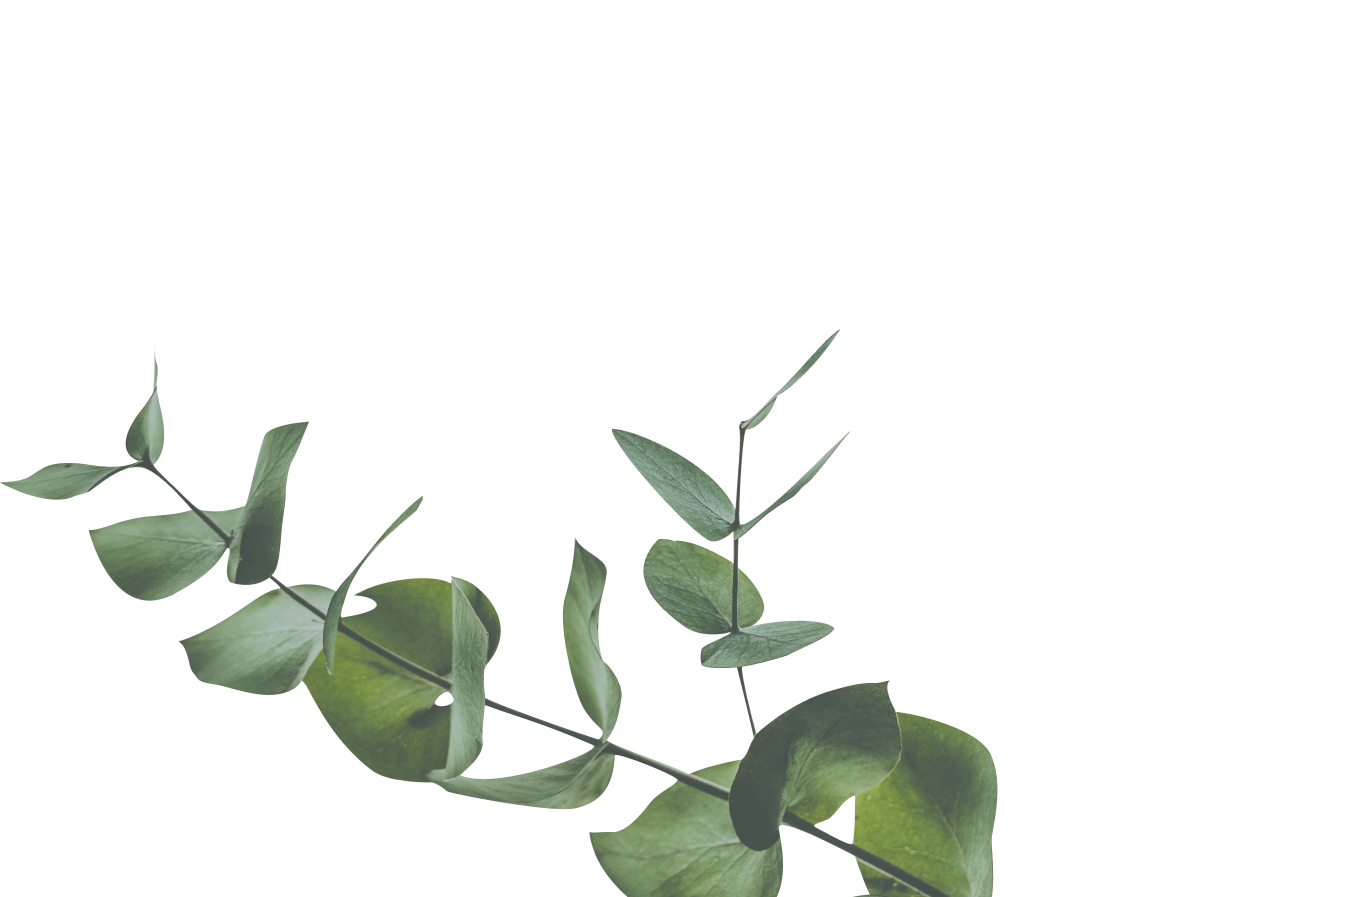
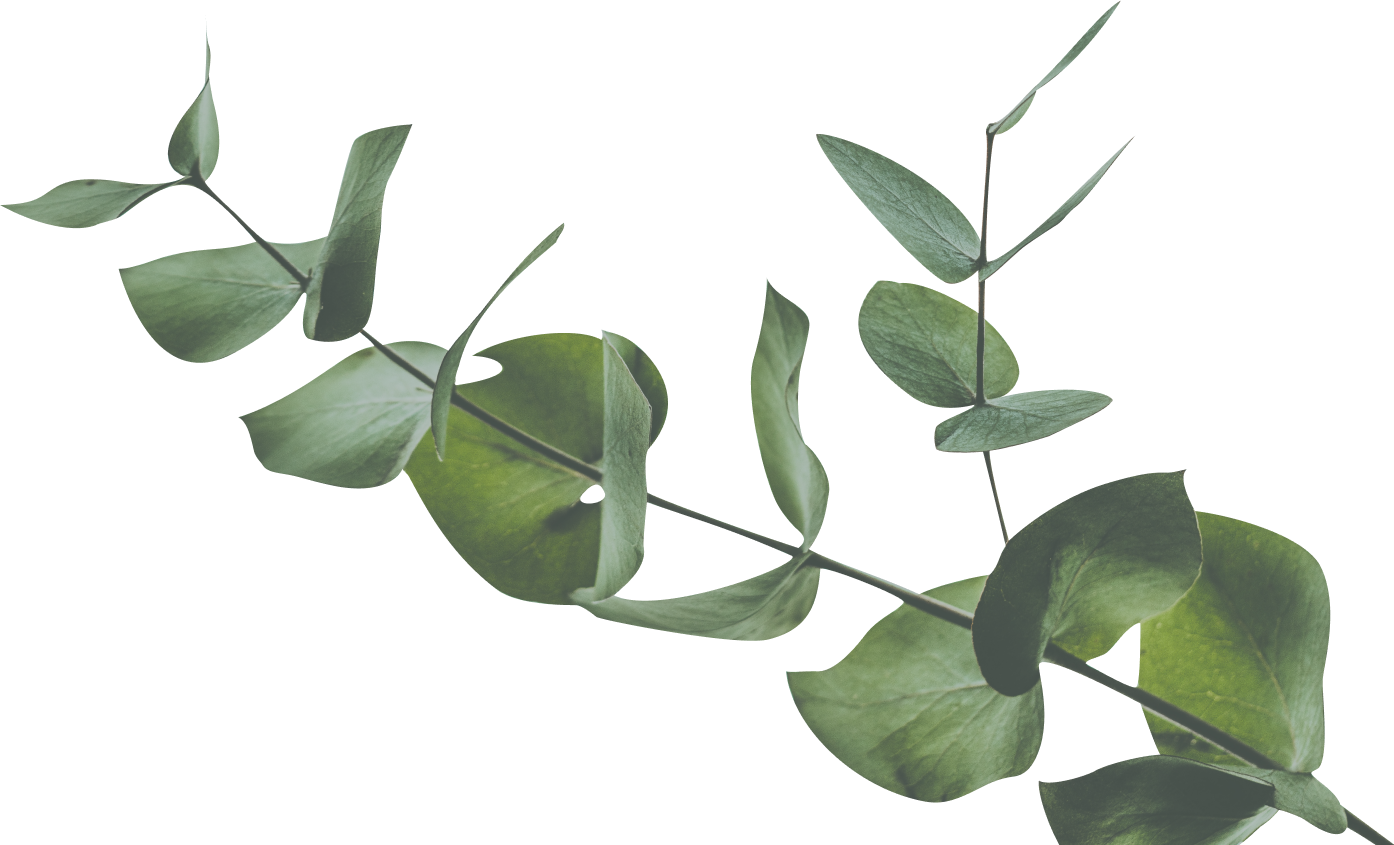
Modifier hover et bg accueil

diff --git a/src/styles/components/accueil.scss b/src/styles/components/accueil.scss
@@ -3,9 +3,16 @@
    ========================================================================== */
 .accueil {
     position: relative;
-    height: 100vh;
+    height: calc(100vh - 75.39px);
+
+    .avant_plan {
+        position: absolute;
+        bottom: 0;
+        left: 1%;
+        width: 50vw;
+        z-index: -1;
+    }
     .hero {
-        position: relative;
         position: absolute;
         left: 40%;
         top: 30%;
@@ -14,6 +21,21 @@
         margin: 0 0 0 85px;
         font-size: 2rem;
         line-height: 116%;
+    }
+    .box {
+        position: relative;
+        height: 160px;
+        &:hover {
+            .circle {
+                transition: transform 1s ease-in-out;
+                background: linear-gradient(
+                    90deg,
+                    rgba(204, 150, 22, 1) 0%,
+                    rgba(235, 235, 169, 1) 30%,
+                    rgba(204, 150, 22, 1) 100%
+                );
+            }
+        }
     }
     .call_action {
         position: absolute;
@@ -32,163 +54,92 @@
         font-weight: 700;
         text-transform: uppercase;
 
+        transform: perspective(1px) translateZ(0);
+        transition: 0.3s color ease-out;
+
+        &::before {
+            content: '';
+            position: absolute;
+            z-index: -1;
+            top: 0;
+            bottom: 0;
+            left: 0;
+            right: 0;
+            background: #2098d1;
+            -webkit-transform: scaleX(0);
+            transform: scaleX(0);
+            -webkit-transform-origin: 50%;
+            transform-origin: 50%;
+            -webkit-transition-property: transform;
+            transition-property: transform;
+            -webkit-transition-duration: 0.3s;
+            transition-duration: 0.3s;
+            -webkit-transition-timing-function: ease-out;
+            transition-timing-function: ease-out;
+        }
+
         &:hover {
             background: var(--color-secondary);
             -webkit-background-clip: inherit;
             -webkit-text-fill-color: var(--color-white);
         }
     }
-    .avant_plan {
-        position: absolute;
-        bottom: 0;
-        left: 1%;
-        width: 70vw;
-        z-index: -1;
-    }
-
-    .box {
-        position: relative;
-        transition: transform 0.4s cubic-bezier(0.23, 1.83, 0.42, 1.19);
-        &:hover {
-            .circle {
-                transform: scale(1.2);
-            }
-        }
-
-        /* a {
-             position: absolute;
-            top: 50%;
-            left: 50%;
-        } */
-    }
-    /* .call_action::after {
-        position: absolute;
-        top: 0;
-        right: 0;
-        content: '';
-        width: 120px;
-        height: 180px;
-        border-radius: 50%;
-        z-index: -1;
-        box-shadow: linear-gradient(
-            90deg,
-            rgba(224, 170, 62, 1) 0%,
-            rgba(255, 255, 189, 1) 30%,
-            rgba(224, 170, 62, 1) 100%
-        );
-        background: linear-gradient(
-            90deg,
-            rgba(224, 170, 62, 1) 0%,
-            rgba(255, 255, 189, 1) 30%,
-            rgba(224, 170, 62, 1) 100%
-        ); 
-
-        animation: 1s linear infinite alternate portal,
-            6s linear infinite alternate spinning,
-            0.8s linear infinite alternate big; 
-
-         &:hover {
-            transform: translate(5px 0);
-        } 
-    } */
-
     .circle {
         position: absolute;
         top: 0;
-        right: 0;
-        width: 120px;
-        height: 180px;
+        left: 60%;
+        width: 140px;
+        height: 160px;
 
-        background: none;
-        border: 2px solid;
-        border-image-slice: 1;
-
-        /* background-clip: padding-box;
-        border: solid 2px transparent; */
-        border-image-source: linear-gradient(
-            90deg,
-            rgba(224, 170, 62, 1) 0%,
-            rgba(255, 255, 189, 1) 30%,
-            rgba(224, 170, 62, 1) 100%
-        );
-
-        &::before {
-            content: '';
-            border-radius: 50%;
-            position: absolute;
-            top: 0;
-            right: 0;
-            bottom: 0;
-            left: 0;
-            /* z-index: -1;
-            margin: -2px;
-            background: linear-gradient(
-                90deg,
-                rgba(224, 170, 62, 1) 0%,
-                rgba(255, 255, 189, 1) 30%,
-                rgba(224, 170, 62, 1) 100%
-            ); */
-        }
-
-        /* border-radius: 50%;
-        box-shadow: linear-gradient(
-            90deg,
-            rgba(224, 170, 62, 1) 0%,
-            rgba(255, 255, 189, 1) 30%,
-            rgba(224, 170, 62, 1) 100%
-        );
+        border: 3px solid transparent;
+        border-radius: 50%;
         background: linear-gradient(
             90deg,
             rgba(224, 170, 62, 1) 0%,
             rgba(255, 255, 189, 1) 30%,
             rgba(224, 170, 62, 1) 100%
-        ); */
+        );
 
-        /*  animation: 1s linear infinite alternate portal,
-            6s linear infinite alternate spinning,
-            0.8s linear infinite alternate big;
+        -webkit-mask: linear-gradient(#fff 0 0) content-box,
+            linear-gradient(#fff 0 0);
+        mask: linear-gradient(#fff 0 0) content-box, linear-gradient(#fff 0 0);
+        -webkit-mask-composite: xor;
+        mask-composite: exclude;
 
-         &:hover {
-            transform: translate(5px 0);
-        } */
-    }
+        animation: 0.8s linear infinite alternate big,
+            1.5s ease-in-out infinite turnBorder;
 
-    @keyframes portal {
-        from {
-            box-shadow: 0 1px 2px #f4be52, 1px 0 0 #f9f295, 0 -1px 0 #f4be52,
-                -1px 0 0 #f9f295;
+        /* ====================   Animation   ==================== */
+        @keyframes big {
+            from {
+                width: 130px;
+                height: 170px;
+            }
+            to {
+                width: 145px;
+                height: 155px;
+            }
         }
-        to {
-            box-shadow: 0 -1px 2px #f4be52, -1px 0 2px #f9f295,
-                0 1px 2px #f4be52, 1px 0 2px #f9f295;
-        }
-    }
 
-    @keyframes spinning {
-        from {
-            transform: rotate(315deg);
-        }
-        to {
-            transform: rotate(45deg);
-        }
-    }
-
-    @keyframes big {
-        from {
-            width: 120px;
-            height: 180px;
-        }
-        to {
-            width: 150px;
-            height: 150px;
+        @keyframes turnBorder {
+            from {
+                -webkit-transition: -webkit-transform 1s;
+                -moz-transition: -moz-transform 1s;
+                transition: transform 1s;
+            }
+            to {
+                -webkit-transform: rotate(360deg);
+                -moz-transform: rotate(360deg);
+                transform: rotate(360deg);
+            }
         }
     }
 
     /* ==========================================================================
-   Responsive
-   ========================================================================== */
+    Responsive
+    ========================================================================== */
 
-    @media screen and (max-width: 1420px) {
+    /* @media screen and (max-width: 1420px) {
         h1 {
             font-size: var(--font-size-h2);
         }
@@ -246,5 +197,5 @@
             margin: 100px 0;
             font-size: 1.5rem;
         }
-    }
+    } */
 }

diff --git a/src/styles/elements/body.scss b/src/styles/elements/body.scss
@@ -10,15 +10,17 @@ body {
     font-weight: 200;
     color: var(--color-white);
     line-height: 1.6;
-    background: url('../assets/bg.jpg') no-repeat fixed;
-    background-size: cover;
-    background-position: center;
 
-    back p {
-        margin: 0;
+    .background {
+        position: fixed;
+        top: 0;
+        left: 0;
+        object-fit: cover;
+        z-index: -2;
+        width: 100vw;
     }
 
-    @media screen and (max-width: $breakpoint-xs) {
+    /* @media screen and (max-width: $breakpoint-xs) {
         background: url('../assets/bg-xs.jpg') no-repeat fixed;
-    }
+    } */
 }

diff --git a/src/styles/components/header.scss b/src/styles/components/header.scss
@@ -57,7 +57,7 @@ header {
                     border-right: none;
 
                     transform: scaleX(1);
-                    transition: transform 0.5s linear;
+                    transition: transform 0.2s linear;
                 }
             }
         }

diff --git a/src/_partials/_header.html b/src/_partials/_header.html
@@ -10,6 +10,7 @@
   </head>
 
   <body>
+    <img class="background" src="../assets/bg.jpg" alt="Image de fond">
     <header>
       <a href="index.html" class="logo"><img src="../assets/logo.png" alt="logo"></a>
         <nav class="desktop">
